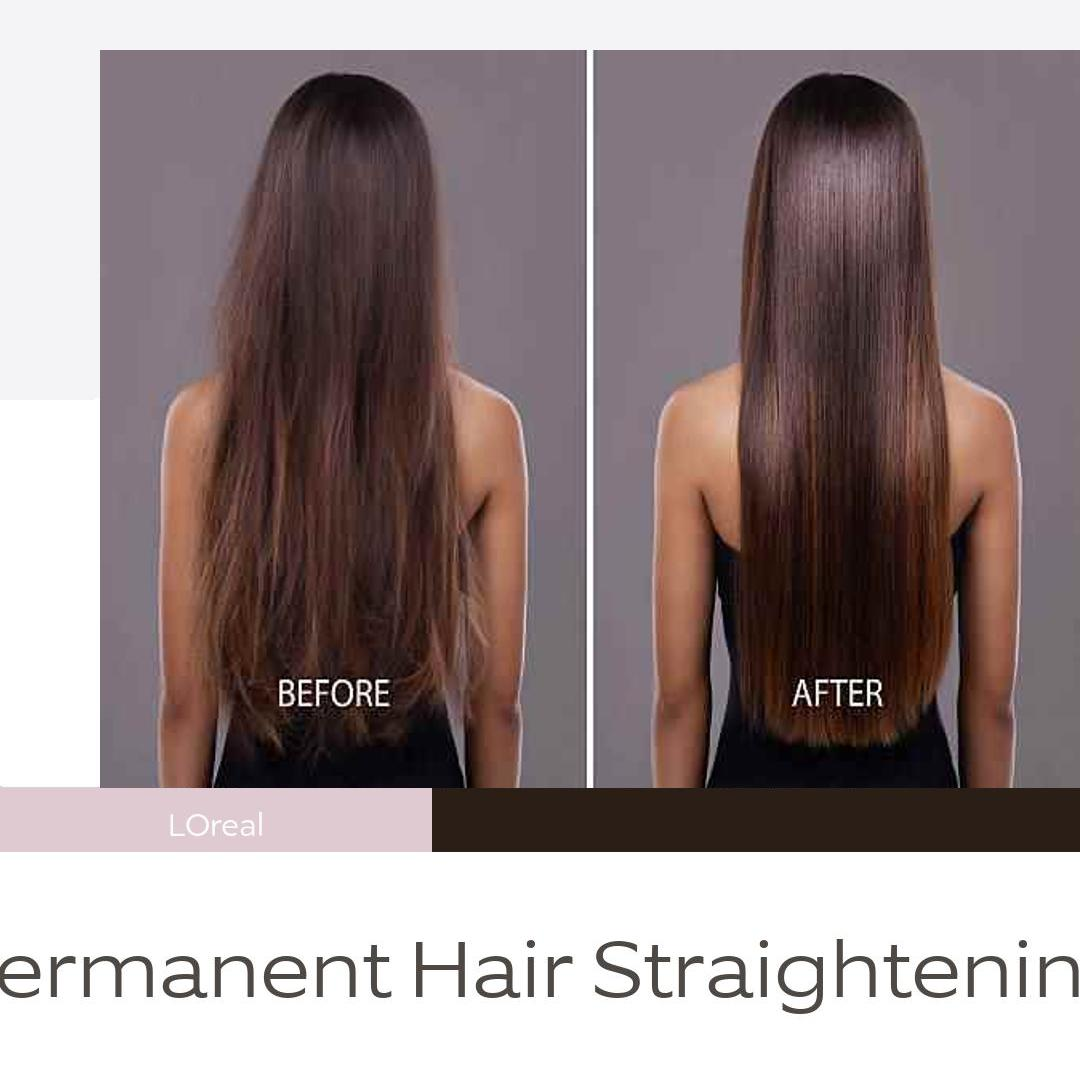
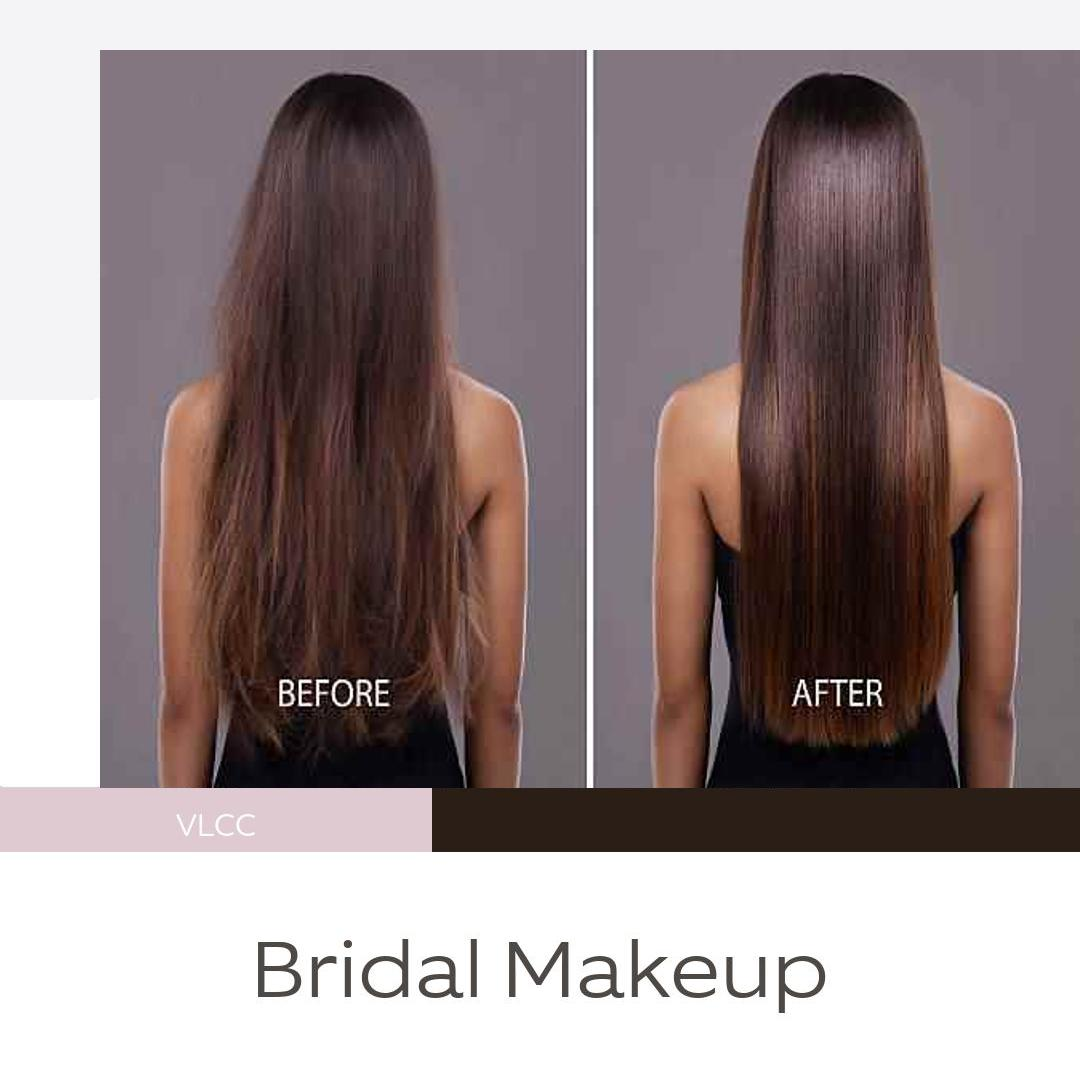
created user input text

Changed region(s): [[0.0, 0.8556, 1.0, 0.9472], [0.1528, 0.7333, 0.2444, 0.7944]]

diff --git a/user_input_task.py b/user_input_task.py
@@ -17,3 +17,59 @@ new_template_img = template_img.copy() #copy image
 new_template_img.paste(brand_service_img,(100,50,1080,788)) #paste image
 # new_template_img.show()
 #output_img.show()
+
+"""To input text over template"""
+
+def create_image(size, bgColor, message, font, fontColor):
+    W, H = size
+    image = Image.new('RGB', size, bgColor)
+    draw = ImageDraw.Draw(image)
+    _, _, w, h = draw.textbbox((0, 0), message, font=font)
+    draw.text(((W-w)/2, (H-h)/2), message, font=font, fill=fontColor)
+    return image
+
+"""(0,788),(432,852)
+Width = 432-0 = 432
+Height = 852-788 = 64
+"""
+brandFont = ImageFont.truetype('Fonts/PromoTest-Normal-BF63b78802deb68.otf', 32)
+# brand_name = 'Oops Upside Yo Head' #For Hairstyle Image
+# brand_name = 'Vandana Luthra Curls and Curves-VLCC' #For BridalMakeup Image
+# brand_name = "LOreal" #For HairStraightening Image
+brand_name = input("Enter brand name: ")
+BrandNameImage = create_image((432,64), '#DFCAD1', brand_name, brandFont,'white')
+BrandNameImage.save('Template Image/brand_name_img.jpg')
+# BrandNameImage.show()
+
+template_img2= Image.open('Template Image/template2.jpg') #open image
+newBrandNameImage = Image.open('Template Image/brand_name_img.jpg') 
+# newBrandNameImage.show()
+brand_template_img = template_img2.copy() #copy image
+"""While Pasting we have to take 4 tuples defining the left, upper, right, and lower pixel co-ordinate"""
+brand_template_img.paste(newBrandNameImage,(0,788,432,852))
+brand_template_img.save('Template Image/brandTemplate.jpg')
+# brand_template_img.show()
+
+"""(0,852),(1080,1080)
+Width = 1080-0 = 1080
+Height = 1080-852 = 228
+"""
+serviceFont = ImageFont.truetype('Fonts/EquipExtended W03 Light.ttf', 80)
+# service_name = 'Hairstyling In Houston' #For Hairstyle Image
+# service_name = 'Bridal Makeup' #For BridalMakeup Image
+# service_name = "Permanent Hair Straightening" #For HairStraightening Image
+service_name = input("Enter service name: ")
+ServiceNameImage = create_image((1080,228), 'white', service_name, serviceFont, '#4E4945')
+ServiceNameImage.save('Template Image/service_name_img.jpg')
+# ServiceNameImage.show()
+
+template_img3 = Image.open('Template Image/brandTemplate.jpg') #open image
+newServiceNameImage = Image.open('Template Image/service_name_img.jpg')
+# newServiceNameImage.show()
+service_template_img = template_img3.copy() #copy image
+"""While Pasting we have to take 4 tuples defining the left, upper, right, and lower pixel co-ordinate"""
+service_template_img.paste(newServiceNameImage,(0,852,1080,1080))
+service_template_img.save('Template Image/serviceTemplate.jpg')
+service_template_img.show()
+
+
